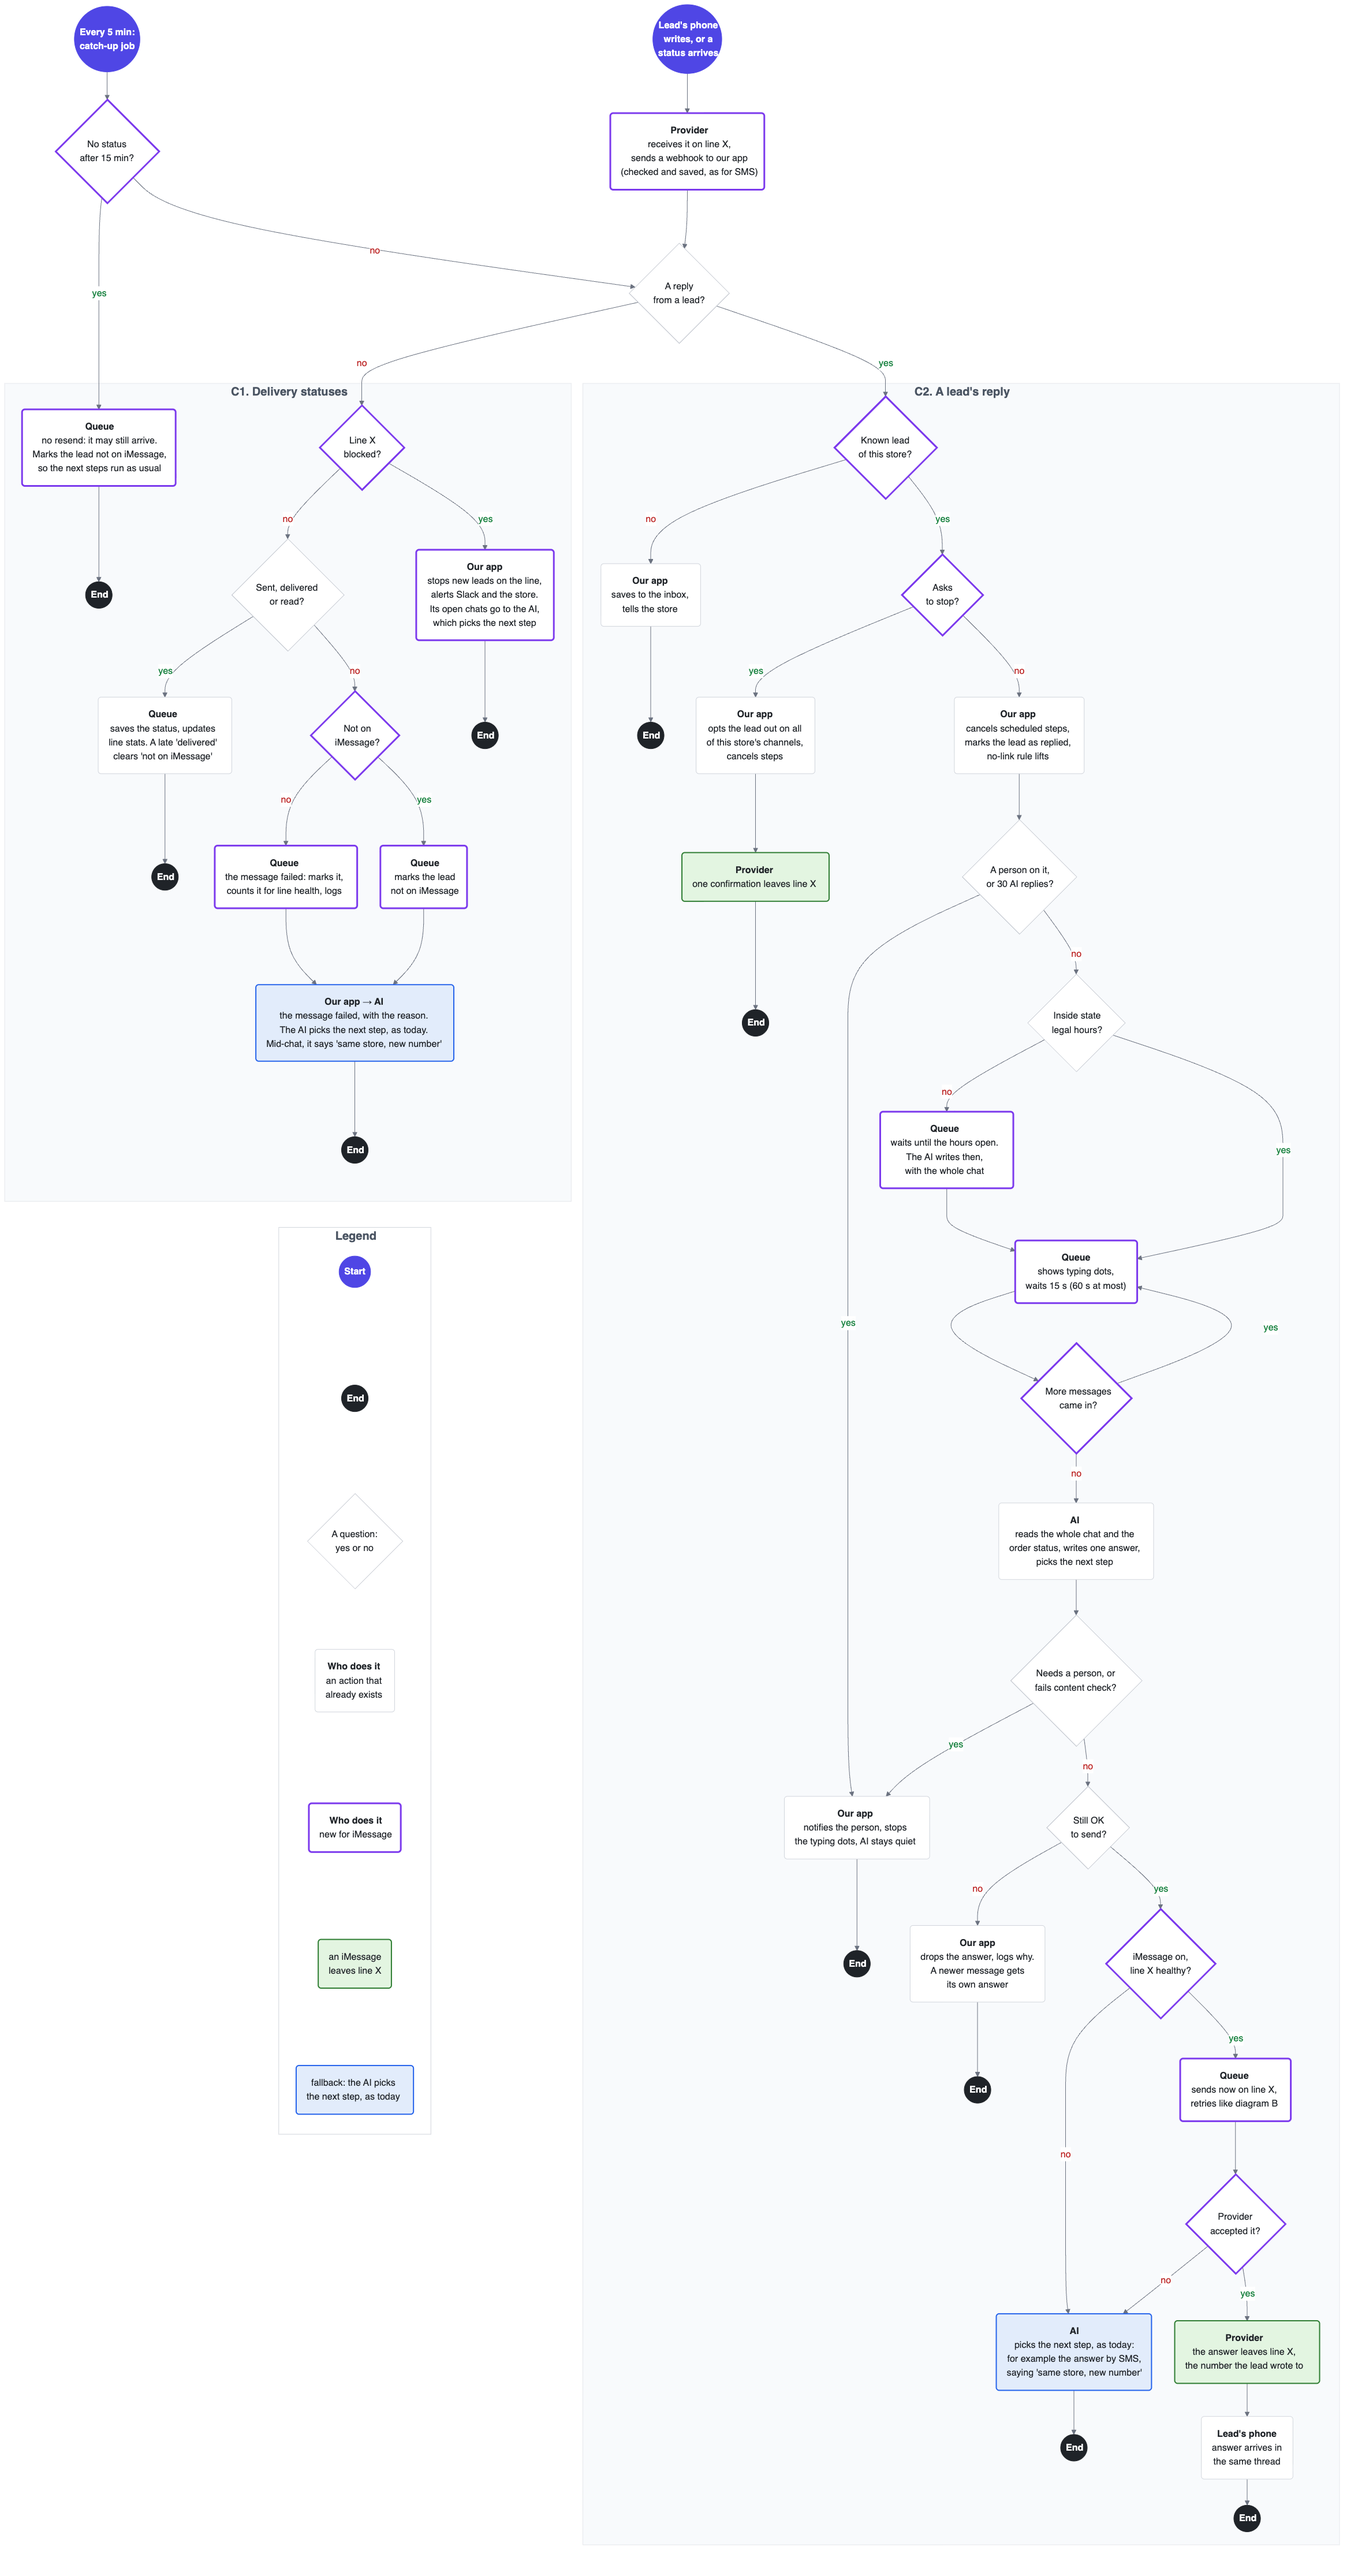
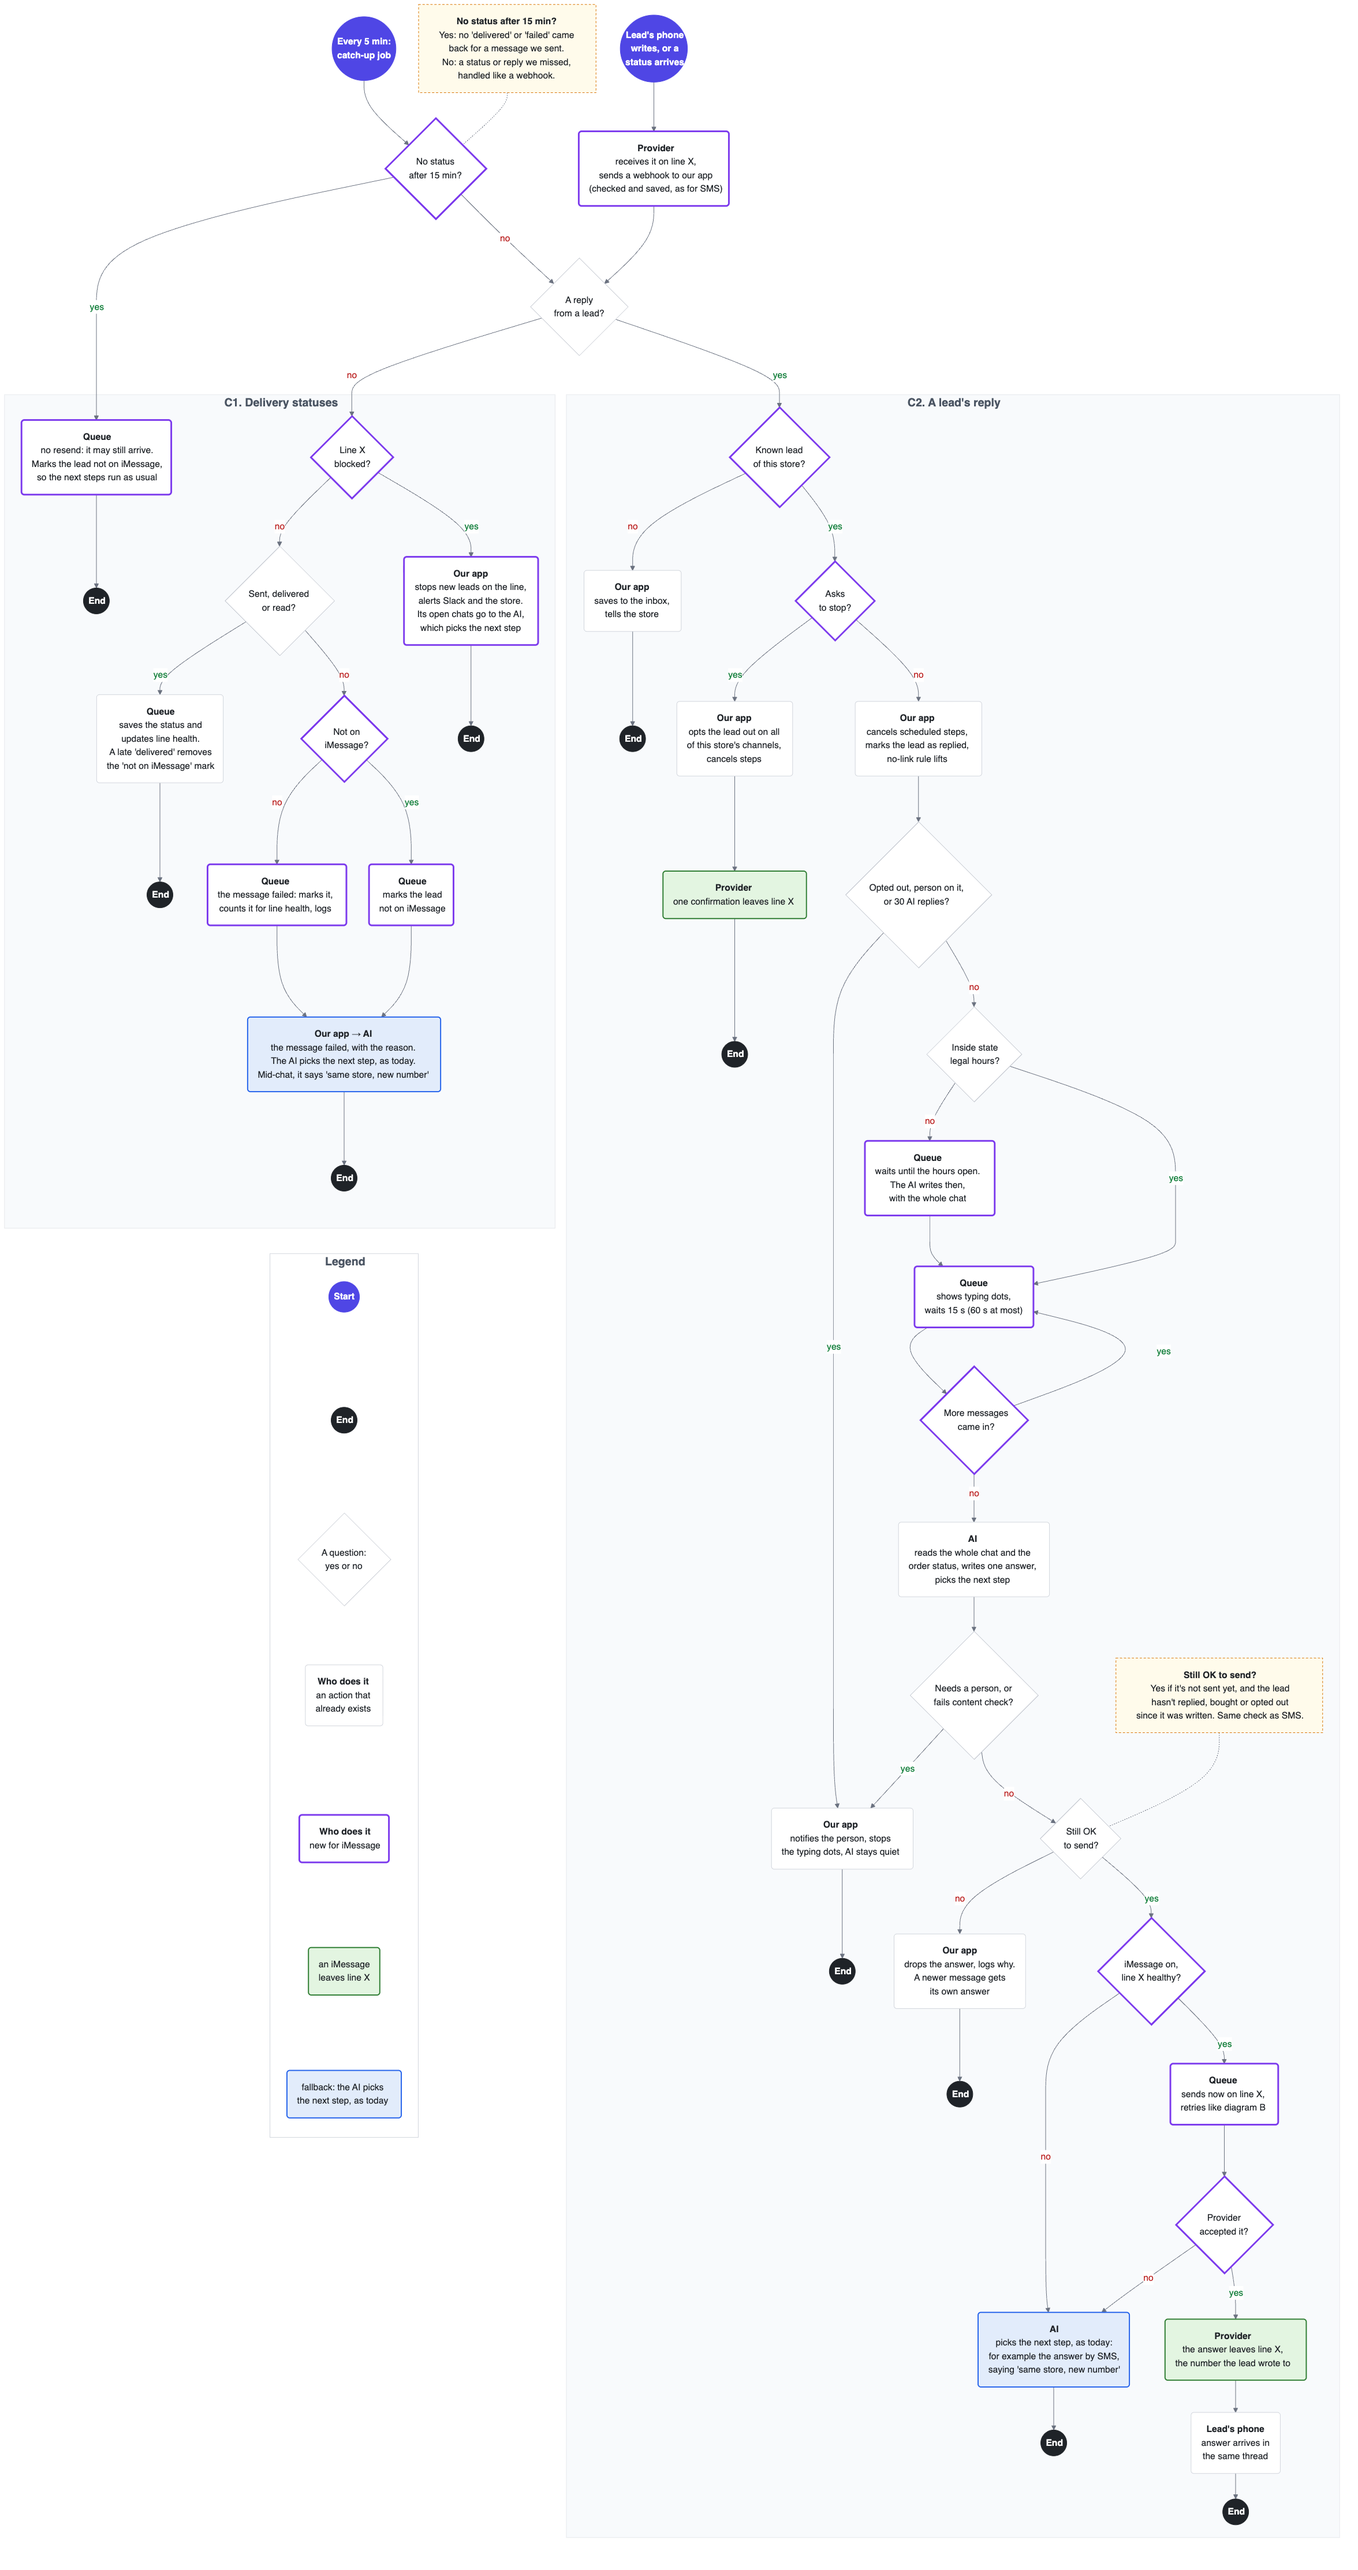
Diagrams: notes on two questions, opted-out leads go to a person
- A dashed note explains "Still OK to send?" in B and C2, and
  "No status after 15 min?" in C (both branches).
- C2: a lead who opted out earlier and writes again goes to a person,
  like a handoff or the 30-reply cap. The AI stays quiet.
- C1: the late-"delivered" box reads in plain phrases.
- README: calls back reach the AI agent; forwarding goes to the
  campaign number.

diff --git a/diagrams.md b/diagrams.md
@@ -7,14 +7,15 @@ Back to the plan: [README.md](README.md)
 **Where this sits in Outcraft's flow:** lead joins a campaign → before each iMessage step, the **iMessage check** → the AI writes the step's message, by iMessage if the lead passed → scheduler: step is due → **B**, only for leads who passed: send-time checks, then iMessage from line X, or back to the AI → **C:** statuses and replies → AI answers and picks the next step. Leads who can't get iMessage get the campaign as usual.
 
 **How to read:**
-- 🟣 start (what triggers it) · ⚫ end, one per branch · ◇ a question, with yes and no arrows · ▢ an action, **bold** = who does it · 🟩 an iMessage leaves line X · 🟦 fallback: the AI picks the next step, as today, never from line X · 🟪 purple border: new for iMessage; grey border: already exists, shared with SMS
+- 🟣 start (what triggers it) · ⚫ end, one per branch · ◇ a question, with yes and no arrows · ▢ an action, **bold** = who does it · 🟩 an iMessage leaves line X · 🟦 fallback: the AI picks the next step, as today, never from line X · 🟪 purple border: new for iMessage; grey border: already exists, shared with SMS · 🟨 dashed yellow: a note on a question
 - **Fallback** (🟦 blue boxes): when iMessage can't go, our app tells the AI that the step failed, and why, as a failed SMS does today. The AI picks the next step, as today, from the campaign's other channels: often SMS from the store's own number, sometimes a call. It never picks iMessage again for this lead in this campaign. Mid-chat, it says it's the same store, because the number changes. If the lead has no other text channel they agreed to, a person gets the chat instead.
 - **Who does it:** our app, the scheduler, the queue, the AI, the provider, or the lead's phone.
 - **Line X** is the store's iMessage line: one per store in v1, like its one SMS number. Every iMessage to the store's leads comes from it. It starts at most 10 new chats a day, then 25, then 50 as it warms up, and 15 an hour.
 - **Number health:** every failure, opt-out and provider warning updates line X's health. Weak: half the new chats, and a Slack alert. Blocked: no new chats, and Slack and the store are told (C1).
+- **"Still OK to send?"** (B and C2): the campaign's shared check, the same one SMS uses, run again right before sending. Yes only if the message hasn't gone out yet, and since the AI wrote it, the lead hasn't replied, bought or opted out. If not, the message is dropped and logged.
 - **iMessage switches:** one for everyone on Outcraft (our team, or the circuit breaker when the provider is down), one per store (our admins), one per campaign. All three must be on.
 - **Which steps:** iMessage is a fifth channel. In a campaign with iMessage on, a lead who passed the check gets text steps by iMessage instead of SMS. So a lead never gets SMS and iMessage from two numbers. After a fallback, the lead's next steps run as usual.
-- **What B leaves to the existing system:** sending hours, state legal hours and the frequency cap (the scheduler fires the step inside them); reply, purchase and opt-out (the campaign's shared check, the same one SMS uses, run again at send time). B adds only the iMessage on-switch and line X's limits.
+- **What B leaves to the existing system:** sending hours, state legal hours and the frequency cap (the scheduler fires the step inside them), and the "Still OK to send?" check. B adds only the iMessage on-switch and line X's limits.
 - **Legal hours in C:** live replies skip the scheduler, so C checks legal hours itself, with the same rule. It checks before the AI writes, so no answer waits for hours and goes out stale.
 - **Checks in two places:** the full iMessage check runs before writing. At send time, the campaign's shared check and the on-switch run again, so nothing stale goes out. If the check, or the lookup, fails, the lead gets the campaign as usual.
 - **When iMessage fails:** if we know it didn't arrive (refused, failed, not on iMessage), the AI picks the next step at once. If we don't know (no delivery status in 15 min), we don't resend, so the lead never gets both. The lead is marked, and the next steps run as usual. A late "delivered" clears the mark.
@@ -66,7 +67,10 @@ flowchart TD
     end
     style LEGEND fill:#ffffff,stroke:#d0d4db,color:#4b5563
     E0 ~~~ LG1
+    N0["<b>Still OK to send?</b><br/>Yes if it's not sent yet, and the lead<br/>hasn't replied, bought or opted out<br/>since it was written. Same check as SMS."]:::note
+    N0 -.- Q0
 
+    classDef note fill:#fffbeb,stroke:#d97706,stroke-width:1px,stroke-dasharray:4 3,color:#1f2328
     classDef start fill:#4f46e5,stroke:#4f46e5,color:#ffffff
     classDef finish fill:#1f2328,stroke:#1f2328,color:#ffffff
     classDef action fill:#ffffff,stroke:#d0d4db,color:#1f2328
@@ -82,7 +86,7 @@ flowchart TD
     linkStyle 2,5,8,12,14,21,22,27 color:#b91c1c,stroke:#6b7280
 ```
 
-🟣 start (what triggers it) · ⚫ end, one per branch · ◇ a question, with yes and no arrows · ▢ an action, **bold** = who does it · 🟩 an iMessage leaves line X · 🟦 fallback: the AI picks the next step, as today, never from line X · 🟪 purple border: new for iMessage; grey border: already exists, shared with SMS
+🟣 start (what triggers it) · ⚫ end, one per branch · ◇ a question, with yes and no arrows · ▢ an action, **bold** = who does it · 🟩 an iMessage leaves line X · 🟦 fallback: the AI picks the next step, as today, never from line X · 🟪 purple border: new for iMessage; grey border: already exists, shared with SMS · 🟨 dashed yellow: a note on a question
 
 If the diagram doesn't render: [diagram-b.png](diagram-b.png)
 
@@ -107,7 +111,7 @@ flowchart TD
         Q8 -- yes --> R2("<b>Our app</b><br/>opts the lead out on all<br/>of this store's channels,<br/>cancels steps") --> OUT2("<b>Provider</b><br/>one confirmation leaves line X"):::out
         OUT2 --> E8(("<b>End</b>"))
         Q8 -- no --> R3("<b>Our app</b><br/>cancels scheduled steps,<br/>marks the lead as replied,<br/>no-link rule lifts")
-        R3 --> Q9{"A person on it,<br/>or 30 AI replies?"}
+        R3 --> Q9{"Opted out, person on it,<br/>or 30 AI replies?"}
         Q9 -- yes --> R4("<b>Our app</b><br/>notifies the person, stops<br/>the typing dots, AI stays quiet") --> E9(("<b>End</b>"))
         Q9 -- no --> QL{"Inside state<br/>legal hours?"}
         QL -- no --> R9("<b>Queue</b><br/>waits until the hours open.<br/>The AI writes then,<br/>with the whole chat"):::new --> R5
@@ -125,6 +129,7 @@ flowchart TD
         Q13 -- no --> R6
         Q13 -- yes --> OUT("<b>Provider</b><br/>the answer leaves line X,<br/>the number the lead wrote to"):::out
         OUT --> PH("<b>Lead's phone</b><br/>answer arrives in<br/>the same thread") --> E11(("<b>End</b>"))
+        N1["<b>Still OK to send?</b><br/>Yes if it's not sent yet, and the lead<br/>hasn't replied, bought or opted out<br/>since it was written. Same check as SMS."]:::note
     end
 
     subgraph C1 ["C1. Delivery statuses"]
@@ -132,7 +137,7 @@ flowchart TD
         Q4a{"Line X<br/>blocked?"}:::new
         Q4a -- yes --> D4
         Q4a -- no --> Q4{"Sent, delivered<br/>or read?"}
-        Q4 -- yes --> D1("<b>Queue</b><br/>saves the status, updates<br/>line stats. A late 'delivered'<br/>clears 'not on iMessage'") --> E3(("<b>End</b>"))
+        Q4 -- yes --> D1("<b>Queue</b><br/>saves the status and<br/>updates line health.<br/>A late 'delivered' removes<br/>the 'not on iMessage' mark") --> E3(("<b>End</b>"))
         Q4 -- no --> Q5{"Not on<br/>iMessage?"}:::new
         Q5 -- no --> D3("<b>Queue</b><br/>the message failed: marks it,<br/>counts it for line health, logs"):::new --> FB
         Q5 -- yes --> DM("<b>Queue</b><br/>marks the lead<br/>not on iMessage"):::new --> FB
@@ -153,7 +158,11 @@ flowchart TD
     end
     style LEGEND fill:#ffffff,stroke:#d0d4db,color:#4b5563
     E6 ~~~ LG1
+    N1 -.- QS
+    N2["<b>No status after 15 min?</b><br/>Yes: no 'delivered' or 'failed' came<br/>back for a message we sent.<br/>No: a status or reply we missed,<br/>handled like a webhook."]:::note
+    N2 -.- QR
 
+    classDef note fill:#fffbeb,stroke:#d97706,stroke-width:1px,stroke-dasharray:4 3,color:#1f2328
     classDef start fill:#4f46e5,stroke:#4f46e5,color:#ffffff
     classDef finish fill:#1f2328,stroke:#1f2328,color:#ffffff
     classDef action fill:#ffffff,stroke:#d0d4db,color:#1f2328
@@ -169,6 +178,6 @@ flowchart TD
     linkStyle 1,4,10,14,15,20,23,24,27,31,37,40,41,48 color:#b91c1c,stroke:#6b7280
 ```
 
-🟣 start (what triggers it) · ⚫ end, one per branch · ◇ a question, with yes and no arrows · ▢ an action, **bold** = who does it · 🟩 an iMessage leaves line X · 🟦 fallback: the AI picks the next step, as today, never from line X · 🟪 purple border: new for iMessage; grey border: already exists, shared with SMS
+🟣 start (what triggers it) · ⚫ end, one per branch · ◇ a question, with yes and no arrows · ▢ an action, **bold** = who does it · 🟩 an iMessage leaves line X · 🟦 fallback: the AI picks the next step, as today, never from line X · 🟪 purple border: new for iMessage; grey border: already exists, shared with SMS · 🟨 dashed yellow: a note on a question
 
 If the diagram doesn't render: [diagram-c.png](diagram-c.png)

diff --git a/README.md b/README.md
@@ -31,7 +31,7 @@ In short: iMessage could get more iPhone shoppers to reply and buy, but it costs
 | Edge case | Today | Suggestion | Why |
 |---|---|---|---|
 | **Channel check** | The lead's profile shows which channels work, like phone or email. | Before the AI writes, also check for iMessage, inside today's check if there is one. | Only a lookup can tell. |
-| **Calls instead of replying** | Unclear: does the AI answer a call back? Asked the team. | Blooio forwards calls on the iMessage number to the store's support number. AI calls show the iMessage number. | One number for chat and calls. A number that doesn't answer loses the lead. |
+| **Calls instead of replying** | A call back to the number that texted reaches the AI agent. | Blooio forwards the iMessage number's calls to the campaign number. AI calls show the iMessage number. | One number for chat and calls, as with SMS today. |
 | **Still typing** | The AI answers each message. | Wait a few seconds after the last message, with typing dots, then answer once. | People type in short bursts. Many answers look like a bot. |
 
 ## 3. Number health: how the team knows without a dashboard
